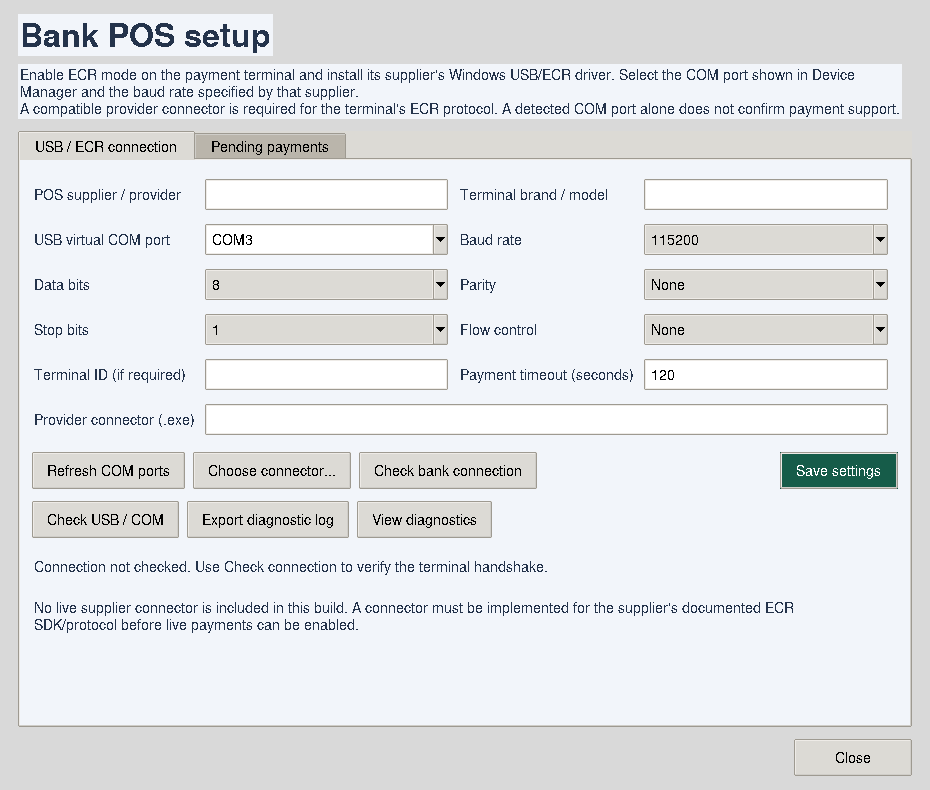
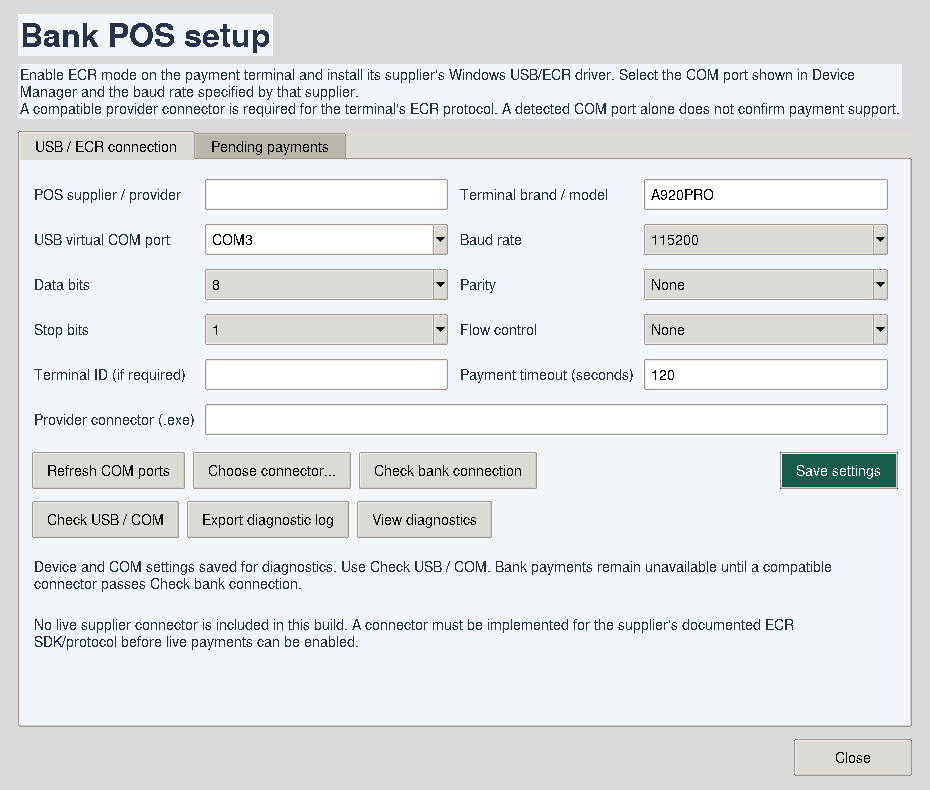
Allow saving diagnostic POS settings without a connector

Changed region(s): [[0.0312, 0.6987, 0.8731, 0.8203], [0.7172, 0.243, 0.7484, 0.2734]]

diff --git a/pos_ui.py b/pos_ui.py
@@ -157,7 +157,8 @@ class PosSetup:
         ttk.Button(diagnostics, text="Export diagnostic log", command=lambda: self.app.export_diagnostics(parent=self.window)).pack(
             side="left", padx=8)
         ttk.Button(diagnostics, text="View diagnostics", command=self.app.open_diagnostics).pack(side="left")
-        self.connection_status = tk.StringVar(value="Connection not checked. Use Check connection to verify the terminal handshake.")
+        self.connection_status = tk.StringVar(value="Save device/COM settings for diagnostics. Check USB / COM works without a connector. "
+                                             "Check bank connection requires a compatible connector.")
         ttk.Label(form, textvariable=self.connection_status, wraplength=830).grid(row=8, column=0, columnspan=4, sticky="w", pady=10)
         ttk.Label(form, text="No live supplier connector is included in this build. A connector must be implemented "
                   "for the supplier's documented ECR SDK/protocol before live payments can be enabled.", wraplength=830).grid(
@@ -253,11 +254,28 @@ class PosSetup:
     def save(self):
         try:
             config = self.config()
-            config.validate()
+            config.validate_settings(require_port=False)
+            verified = False
+            try:
+                config.validate()
+                verified = True
+            except (ValueError, OSError):
+                config.provider_id = ""
+                config.verified_fingerprint = ""
+            pending = self.app.ledger.pending_pos()
+            if pending and (not verified or any(row["provider_id"] != config.provider_id for row in pending)):
+                raise PosError("Keep the original provider settings until unconfirmed payments are resolved. "
+                               "USB diagnostics and log export are still available.", "payment_pending")
             self.app.ledger.set_preference("pos_config", config.to_json())
             self.app.diagnostics.record("pos_config_saved", **config_fields(config))
             self.saved = config
-            self.connection_status.set(f"Settings saved for {config.port}. Each payment still requires terminal approval.")
+            self.checked_config = config if verified else None
+            if verified:
+                self.connection_status.set(f"Settings saved for {config.port}. These settings passed a connection check; "
+                                          "each payment still requires terminal approval.")
+            else:
+                self.connection_status.set("Device and COM settings saved for diagnostics. Use Check USB / COM. "
+                                          "Bank payments remain unavailable until a compatible connector passes Check bank connection.")
             self.app.update_pos_hint()
         except (ValueError, OSError, sqlite3.Error) as error:
             self.app.diagnostics.exception("pos_config_error", error, **config_fields({key: var.get() for key, var in self.variables.items()}))

diff --git a/tests/test_diagnostics_desktop.py b/tests/test_diagnostics_desktop.py
@@ -10,7 +10,7 @@ from unittest.mock import patch
 
 from app import ReceiptApp
 from ledger import Ledger
-from pos import BANK_METHOD
+from pos import BANK_METHOD, PosConfig, PosError
 
 
 @unittest.skipUnless(sys.platform == "win32" or os.environ.get("DISPLAY"), "Requires a desktop or Xvfb")
@@ -83,6 +83,51 @@ class DiagnosticDesktopTests(unittest.TestCase):
         self.assertIn("connector_missing", text)
         self.assertIn("pos_config_error", text)
         self.assertEqual(self.ledger.pending_pos(), [])
+
+    def test_device_settings_save_without_connector_and_remain_unverified(self):
+        self.setup.variables["terminal_model"].set("A920PRO")
+        self.setup.save()
+        self.showerror.assert_not_called()
+        saved = PosConfig.from_json(self.ledger.preference("pos_config"))
+        self.assertEqual(saved.terminal_model, "A920PRO")
+        self.assertEqual(saved.port, "COM3")
+        self.assertEqual(saved.provider_id, "")
+        self.assertEqual(saved.verified_fingerprint, "")
+        self.assertIn("saved for diagnostics", self.setup.connection_status.get())
+        event = self.app.diagnostics.recent(1)[0]
+        self.assertEqual(event["event"], "pos_config_saved")
+        self.assertFalse(event["settings_checked"])
+        self.assertNotIn("error_code", event)
+        with self.assertRaises(PosError):
+            saved.validate()
+        self.setup.close()
+        with patch("pos_ui.serial_ports", return_value=["COM3"]):
+            self.app.open_pos_setup()
+        self.assertEqual(self.app.pos_setup.variables["terminal_model"].get(), "A920PRO")
+        self.assertEqual(self.app.pos_setup.variables["port"].get(), "COM3")
+        self.app.fields["method"].set(BANK_METHOD)
+        self.app.fields["amount"].set("100")
+        self.app.save()
+        self.assertIsNone(self.app.active_pos)
+        self.assertEqual(self.ledger.pending_pos(), [])
+        self.assertEqual(len(self.ledger.receipts()), 1)
+
+    def test_model_only_preferences_can_be_saved_before_a_port_is_selected(self):
+        self.setup.variables["terminal_model"].set("A920PRO")
+        self.setup.variables["port"].set("")
+        self.setup.save()
+        self.showerror.assert_not_called()
+        saved = PosConfig.from_json(self.ledger.preference("pos_config"))
+        saved.validate_settings(require_port=False)
+        self.assertEqual(saved.terminal_model, "A920PRO")
+        with self.assertRaises(PosError):
+            saved.validate()
+
+    def test_invalid_serial_preferences_still_do_not_save(self):
+        self.setup.variables["baud_rate"].set("invalid")
+        self.setup.save()
+        self.showerror.assert_called_once()
+        self.assertEqual(self.ledger.preference("pos_config"), "")
 
     def test_windows_port_busy_error_can_be_exported(self):
         with patch("diagnostics_ui.inspect_com_port", return_value=dict(port="COM3", result_code="port_busy", win_error=32)):

diff --git a/pos.py b/pos.py
@@ -85,11 +85,13 @@ class PosConfig:
     provider_id: str = ""
     verified_fingerprint: str = ""
 
-    def validate(self, *, require_verified=True):
+    def validate_settings(self, *, require_port=True):
+        """Validate editable preferences separately from payment readiness."""
         for value in (self.supplier, self.terminal_model):
             if not isinstance(value, str) or len(value) > 120:
                 raise PosError("Supplier and terminal model must be 120 characters or fewer.", "invalid_config")
-        if not re.fullmatch(r"COM[1-9][0-9]{0,3}", self.port):
+        if (not isinstance(self.port, str) or
+                ((require_port or self.port) and not re.fullmatch(r"COM[1-9][0-9]{0,3}", self.port))):
             raise PosError("Choose the terminal's Windows COM port, for example COM3.", "invalid_port")
         if type(self.baud_rate) is not int or self.baud_rate not in BAUD_RATES:
             raise PosError("Choose a baud rate supported by your supplier's ECR settings.", "invalid_baud")
@@ -102,6 +104,11 @@ class PosConfig:
         if type(self.timeout_seconds) is not int or not 15 <= self.timeout_seconds <= 300:
             raise PosError("Payment timeout must be between 15 and 300 seconds.", "invalid_timeout")
         safe_token(self.terminal_id, limit=80, optional=True)
+        if not isinstance(self.connector_path, str) or len(self.connector_path) > 4096 or "\x00" in self.connector_path:
+            raise PosError("Enter a valid connector path, or leave it blank for diagnostics.", "invalid_config")
+
+    def validate(self, *, require_verified=True):
+        self.validate_settings()
         path = Path(self.connector_path)
         if not self.connector_path or path.suffix.lower() != ".exe" or not path.is_file():
             raise PosError("A compatible bank POS connector is required. A COM port alone cannot process payments.", "connector_missing")

diff --git a/tests/test_pos_desktop.py b/tests/test_pos_desktop.py
@@ -174,6 +174,34 @@ class PosDesktopTests(unittest.TestCase):
         self.assertEqual(self.ledger.receipts(), [])
         self.showerror.assert_called_once()
 
+    def test_changed_connection_can_save_preferences_but_requires_a_new_check(self):
+        with patch("pos_ui.serial_ports", return_value=["COM3", "COM9"]):
+            self.app.open_pos_setup()
+        setup = self.app.pos_setup
+        setup.variables["port"].set("COM9")
+        setup.save()
+        self.showerror.assert_not_called()
+        saved = PosConfig.from_json(self.ledger.preference("pos_config"))
+        self.assertEqual(saved.port, "COM9")
+        self.assertEqual(saved.provider_id, "")
+        self.assertEqual(saved.verified_fingerprint, "")
+        self.app.save()
+        self.showerror.assert_called_once()
+        self.assertEqual(self.operations, [])
+        self.assertEqual(self.ledger.receipts(), [])
+
+    def test_diagnostic_settings_cannot_overwrite_a_pending_payments_provider(self):
+        original = self.ledger.preference("pos_config")
+        self.ledger.begin_pos_payment(dict(received_date="2026-11-03", amount="100", method=BANK_METHOD), "fixture-provider")
+        with patch("pos_ui.serial_ports", return_value=["COM3", "COM9"]):
+            self.app.open_pos_setup()
+        setup = self.app.pos_setup
+        setup.variables["port"].set("COM9")
+        setup.save()
+        self.showerror.assert_called_once()
+        self.assertEqual(self.ledger.preference("pos_config"), original)
+        self.assertEqual(len(self.ledger.pending_pos()), 1)
+
 
 if __name__ == "__main__":
     unittest.main()

diff --git a/app.py b/app.py
@@ -23,7 +23,7 @@ from diagnostics_ui import DiagnosticsWindow, UsbProbeWindow
 from usb_diagnostics import probe_message
 from pos import serial_ports
 
-APP_VERSION = "1.3.0"
+APP_VERSION = "1.3.1"
 
 
 def default_data_path() -> Path:

diff --git a/README.md b/README.md
@@ -17,6 +17,9 @@ different protocols need different connectors even when both expose a COM port.
 Version **1.3.0** adds automatic rotating diagnostic logs, an exportable support `.txt` file,
 and a Windows USB/COM access check that works without any ECR SDK or provider connector.
 
+Version **1.3.1** lets you save device/COM details for diagnostics without a provider connector.
+Saving these preferences does not verify a bank connection or enable card payments.
+
 ![Application design preview with example receipts](docs/design-preview.png)
 
 The preview contains example data only. The application starts with an empty receipt book.
@@ -121,6 +124,10 @@ If you only know the COM port and how to enable ECR/USB, you can use these diagn
 4. If there is an error, click **Export diagnostic log**, save the `.txt` file, and attach that file when asking for support.
 
 The same **Check USB / COM** and **Export diagnostic log** buttons are also in **Bank POS setup**.
+You can enter your terminal model and COM port and click **Save settings** with the connector field blank.
+These details are remembered for the next session. A successful **Check bank connection** is still required
+to enable the saved profile for bank payments. Changing connection details clears its previous verification.
+Settings needed by unconfirmed payments are preserved until those payments can be reconciled.
 The USB check detects whether Windows lists the port, attempts to open it exclusively, reads the host's
 current serial configuration, and closes it. When available it also records the selected port's USB
 vendor/product IDs (VID/PID) mapped to that port in the Windows registry, which can help identify its driver;
